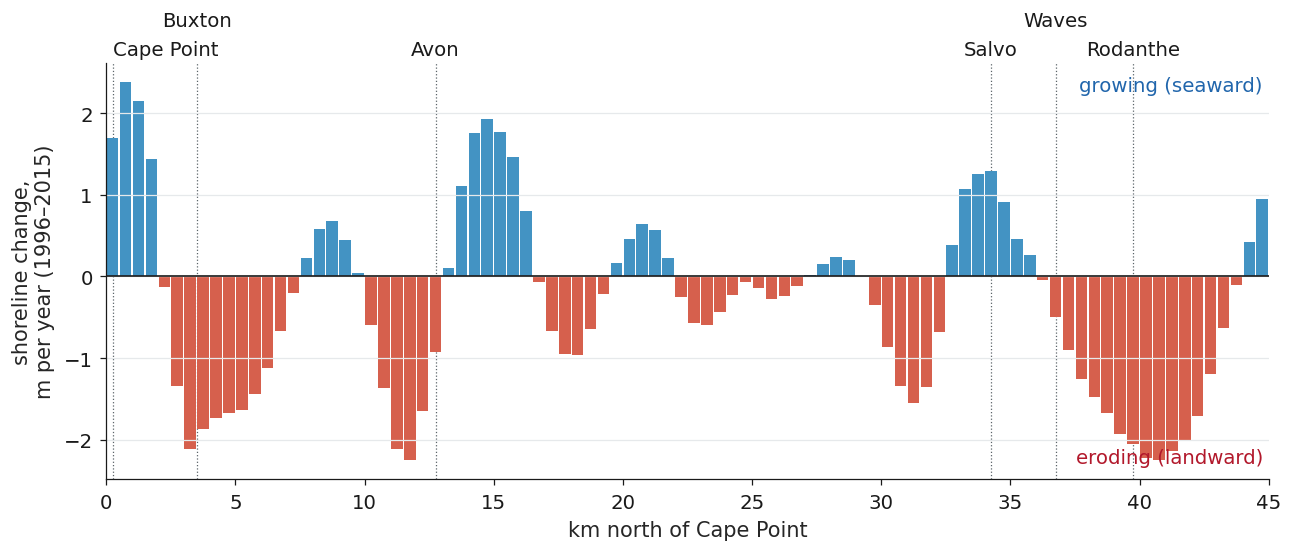
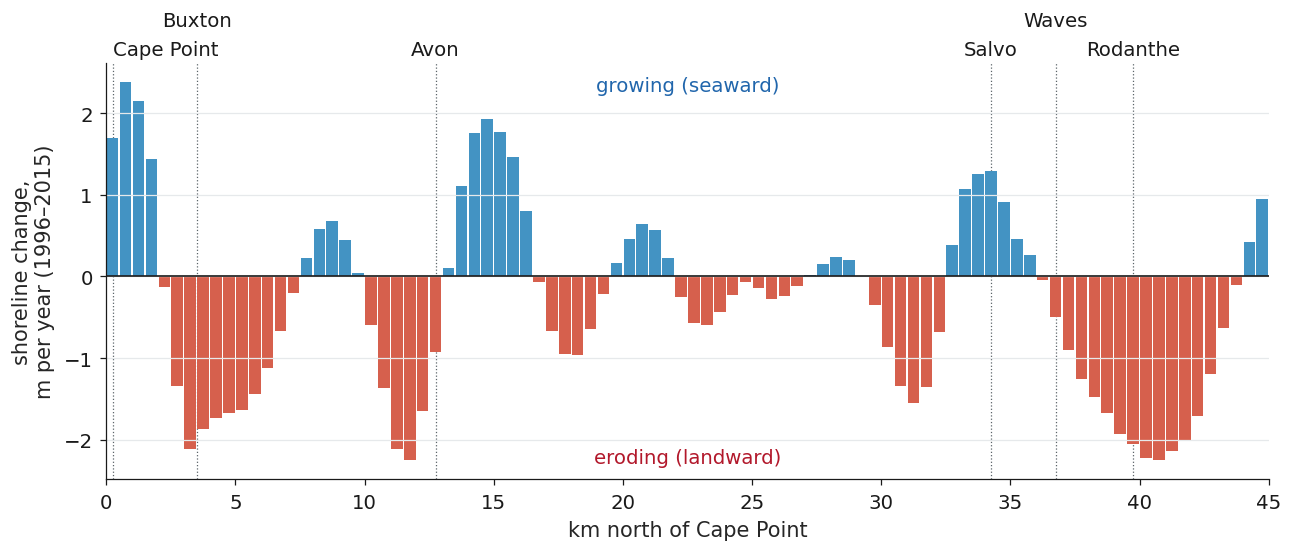
Reorder the groins page and simplify the model page
The groins page now reads history, the hard-structure ban, then the repair, with the examples from other places shortened into a drop-down. On the model page the four-part diagram is gone, step one becomes a slider between the aerial photo and the height maps, the dune-to-road figure uses shaded relief so the dunes stand out, its second chart is dropped, and the labels on the comparison chart are centred.

diff --git a/assets/hatteras/js/model-steps.js b/assets/hatteras/js/model-steps.js
@@ -34,7 +34,27 @@
     show(0);
   }
 
-  function start() { document.querySelectorAll(".hat-steps").forEach(function (r) { Steps(r); }); }
+  // Step 1: drag between the photo and a height map; buttons pick the 10 m grid or the 1 m lidar
+  function Compare(box) {
+    var after = box.querySelector(".hat-ms-after"), range = box.querySelector(".hat-ms-range");
+    var divider = box.querySelector(".hat-ms-divider"), tag = box.querySelector(".hat-ms-tag");
+    function clip() { after.style.clipPath = "inset(0 0 0 " + range.value + "%)"; divider.style.left = range.value + "%"; }
+    range.addEventListener("input", clip);
+    range.addEventListener("keydown", function (e) { e.stopPropagation(); });   // arrows move the handle, not the step
+    box.querySelectorAll(".hat-ms-layers button").forEach(function (b) {
+      b.addEventListener("click", function () {
+        box.querySelectorAll(".hat-ms-layers button").forEach(function (o) { o.classList.toggle("on", o === b); });
+        after.src = box.getAttribute("data-" + b.getAttribute("data-layer"));
+        tag.textContent = b.textContent;
+      });
+    });
+    clip();
+  }
+
+  function start() {
+    document.querySelectorAll(".hat-steps").forEach(function (r) { Steps(r); });
+    document.querySelectorAll(".hat-ms-compare").forEach(Compare);
+  }
   if (document.readyState === "loading") document.addEventListener("DOMContentLoaded", start);
   else start();
 })();

diff --git a/_sass/_hatteras.scss b/_sass/_hatteras.scss
@@ -1818,3 +1818,27 @@ table.hat-mvo-skill {
   object-fit: cover;
 }
 
+// Model page step 1: photo vs height map slider (1 px = 1 m, 950 x 500)
+.hat-ms-compare {
+  margin: 0.4rem 0 0.2rem;
+
+  .hat-ms-layers {
+    margin-bottom: 0.5rem;
+  }
+
+  .hat-ms-photos {
+    aspect-ratio: 950 / 500;
+
+    img {
+      margin: 0;          // the stepper's image margin would push the stacked layers down
+    }
+  }
+
+  .hat-ms-scale {
+    display: block;
+    width: 100%;
+    max-width: 30rem;
+    margin: 0.4rem auto 0;
+  }
+}
+

diff --git a/tools/hatteras_model_stretch.py b/tools/hatteras_model_stretch.py
@@ -12,15 +12,20 @@ It is outlined on the whole-island map of step 2 (tools/hatteras_model_steps.py 
   step1.png        (a) NC OneMap 1996 aerial photo, (b) the 1 m elevation surface, (c) the 10 m grid the model is cut
                    from; the rasters are CASCADE's 2009-2014-1996 product (clip_domain_43_*, resampled_domain_43_*),
                    as in scripts/figure_making/pipeline/0-elevation/dem_composition_figures.py.
-  step5_road.png   the 2007 photo with the 2009 digitised dune line and the 2008 NC-12 line (lines and photo of the same
-                   years, so they sit on each other; the 1996 photo is offset from them), and the distance between them. The model reads its own distance per stretch from the elevation grid
+  step1_photo.jpg, step1_lidar.png, step1_grid.png  the same three views as bare, same-sized layers (1 px = 1 m) for
+                   the drag slider in step 1 (Hannah, 2026-10-04: a slider instead of three stacked panels), and
+                   step1_scale.png, the height colour scale for it
+  step5_road.png   shaded relief of the 2009 lidar (the 1 m surface above, lit from the north-west and tinted by height)
+                   with the 2009 digitised dune line and the 2008 NC-12 line, and the distance between them. Hannah
+                   asked (2026-10-04) for an image where the dunes stand out; in the 2007 photo used before they read
+                   as flat sand. Lines and lidar are of the same years, so they sit on each other. The model reads its own distance per stretch from the elevation grid
                    (RoadSetback_1996_dunestart.csv, 170 m here); the caption on the page says so.
 Writes into assets/hatteras/img/model_steps/; the photos are cached in tools/data/model_stretch_gis<GIS>_<year>.jpg.
 
 Author:  Hannah A. Henry, Coastal Environmental Change Lab,
          University of North Carolina at Chapel Hill
 Contact: hahenry@unc.edu
-Version: 2026-10-03
+Version: 2026-10-04
 """
 import io as _io
 import sys
@@ -124,6 +129,27 @@ def main():
     plt.close(fig)
     print("wrote step1.png")
 
+    # ---- step 1 as slider layers: photo, 1 m lidar, 10 m grid, each W x H px at 1 px = 1 m ------------------------
+    w, h = X1 - X0, c1.shape[0]
+    from matplotlib.colors import to_rgb
+
+    def colour(z):
+        rgb = cmap(norm(np.nan_to_num(z, nan=-1)))[..., :3]
+        rgb[~(z >= 0)] = to_rgb(water)
+        return Image.fromarray((rgb * 255).astype(np.uint8))
+
+    img.resize((w, h), Image.LANCZOS).save(OUT / "step1_photo.jpg", quality=88)
+    colour(c1).save(OUT / "step1_lidar.png", optimize=True)
+    colour(np.repeat(np.repeat(c10, 10, axis=0), 10, axis=1)[:h, :w]).save(OUT / "step1_grid.png", optimize=True)
+    fig, ax = plt.subplots(figsize=(6, 0.55))
+    sm = plt.cm.ScalarMappable(norm=norm, cmap=cmap)
+    cb = fig.colorbar(sm, cax=ax, orientation="horizontal", ticks=ticks)
+    cb.set_label("height above high tide (m); blue is water", fontsize=9.5)
+    cb.ax.tick_params(labelsize=9)
+    fig.savefig(OUT / "step1_scale.png", dpi=150, bbox_inches="tight", pad_inches=0.04)
+    plt.close(fig)
+    print(f"wrote step1 slider layers ({w} x {h} px) and scale")
+
     # ---- step 5: the road behind the dunes on this stretch ------------------------------------------------------------
     dune = gpd.read_file(DUNE).to_crs(26918).geometry.union_all()
     road = gpd.read_file(ROAD).to_crs(26918).geometry.union_all()
@@ -135,7 +161,12 @@ def main():
     from shapely.geometry import box as sbox
     clip = sbox(b.left + X0, b.bottom, b.left + X1, b.top)
     fig, ax = plt.subplots(figsize=(9.5, 9.5 * H / (X1 - X0) + 0.3))
-    ax.imshow(photo(b, 2007), extent=ext)
+    from matplotlib.colors import LightSource
+    land = np.ma.masked_less(np.ma.masked_invalid(c1), 0)
+    ls = LightSource(azdeg=315, altdeg=35)
+    relief = ls.shade(np.ma.filled(land, 0), cmap=cmap, norm=norm, blend_mode="soft", vert_exag=3)
+    relief[np.ma.getmaskarray(land)] = (*matplotlib.colors.to_rgb(water), 1)
+    ax.imshow(relief, extent=ext, interpolation="bilinear")
     for geom, col, lab in ((dune.intersection(clip), "#ffd23f", "front of the dunes (2009)"),
                            (road.intersection(clip), "#d55e00", "NC-12 (2008)")):
         for g in getattr(geom, "geoms", [geom]):
@@ -157,6 +188,8 @@ def main():
     ax.set_xticks([])
     ax.set_yticks([])
     ax.legend(loc="lower left", fontsize=9.5, framealpha=0.92, edgecolor=INK)
+    ax.text(0.008, 0.97, "Shaded relief from lidar, 2009", transform=ax.transAxes, va="top", fontsize=10, color=INK,
+            bbox=dict(boxstyle="square,pad=0.3", fc="white", ec=INK, lw=0.7, alpha=0.93))
     ax.plot([X1 - X0 - 260, X1 - X0 - 60], [40, 40], color="white", lw=3, solid_capstyle="butt", path_effects=halo)
     ax.text(X1 - X0 - 160, 60, "200 m", ha="center", va="bottom", fontsize=9, color="white", path_effects=halo)
     fig.savefig(OUT / "step5_road.png", dpi=150, bbox_inches="tight", pad_inches=0.04)

diff --git a/tools/hatteras_model_steps.py b/tools/hatteras_model_steps.py
@@ -208,35 +208,6 @@ def step4():
     save(fig, 4)
 
 
-def step5():
-    setback = io.two_row(io.tv.INIT_ROOT / HATTERAS_PERIODS[START]["road_setback_file"]).reindex(io.GIS)
-    fig, ax = plt.subplots(figsize=(W_IN, 3.6))
-    for lo, hi in HATTERAS_COMMUNITY_ZONES:
-        ax.axvspan(km(lo) - 0.25, km(hi) + 0.25, color="#e8edf0", zorder=0)
-    ax.axvspan(-1, -1, color="#e8edf0", label="villages: dunes rebuilt, overwash cleared from streets")
-    ax.step(km(setback.index), setback.values, where="mid", color=INK, lw=1.8, label="NC-12: distance back from the front of the dunes (m)")
-    for e in HATTERAS_ROAD_EVENTS:
-        if hasattr(e, "displacement_m") and START <= e.year < END:
-            g = list(e.displacement_m)
-            ax.axvspan(km(min(g)) - 0.25, km(max(g)) + 0.25, ymin=0, ymax=0.12, color=ROAD, zorder=2)
-            ax.text(km(np.mean(g)), 0.15, f"road moved\ninland, {e.year}", transform=ax.get_xaxis_transform(), ha="center",
-                    fontsize=9, color=ROAD, path_effects=halo)
-    for p in HATTERAS_NOURISHMENT_PROJECTS:
-        if START <= p.year < END:
-            g = p.gis_domains
-            ax.axvspan(km(min(g)) - 0.25, km(max(g)) + 0.25, ymin=0.88, ymax=1, color=FILL, zorder=2)
-            ax.text(km(np.mean(g)), 0.84, f"beach\nnourishment, {p.year}", transform=ax.get_xaxis_transform(), ha="center",
-                    va="top", fontsize=9, color="#8a5d06", path_effects=halo)
-    ax.set_xlim(0, 45)
-    ax.set_ylim(0, np.nanmax(setback) * 1.25)
-    ax.set_xlabel("km north of Cape Point", fontsize=10)
-    ax.set_ylabel("metres", fontsize=10)
-    ax.legend(frameon=False, fontsize=9.5, loc="upper center", bbox_to_anchor=(0.5, -0.17), ncol=2)
-    villages(ax)
-    frame(ax)
-    save(fig, 5)
-
-
 def step6():
     target, _ = io.observed_target(START, END)
     fig, ax = plt.subplots(figsize=(W_IN, 3.6))
@@ -247,8 +218,8 @@ def step6():
     ax.set_xlim(0, 45)
     ax.set_xlabel("km north of Cape Point", fontsize=10)
     ax.set_ylabel(f"shoreline change,\nm per year ({START}–{END})", fontsize=10)
-    ax.text(0.995, 0.97, "growing (seaward)", transform=ax.transAxes, ha="right", va="top", fontsize=9.5, color="#2166ac")
-    ax.text(0.995, 0.03, "eroding (landward)", transform=ax.transAxes, ha="right", va="bottom", fontsize=9.5, color="#b2182b")
+    ax.text(0.5, 0.97, "growing (seaward)", transform=ax.transAxes, ha="center", va="top", fontsize=9.5, color="#2166ac")
+    ax.text(0.5, 0.03, "eroding (landward)", transform=ax.transAxes, ha="center", va="bottom", fontsize=9.5, color="#b2182b")
     ax.grid(axis="y", color=GRID, lw=0.6)
     villages(ax)
     frame(ax)
@@ -263,7 +234,6 @@ def main():
     step_offset()
     step3()
     step4()
-    step5()
     step6()
 
 

diff --git a/_pages/hatteras/management-groins.md b/_pages/hatteras/management-groins.md
@@ -26,13 +26,6 @@ The groins trapped sand drifting south along the shore, and the beach south of t
 The shore kept retreating toward the lighthouse, and in the summer of 1999 the lighthouse itself was moved 2,900 feet (880 m) to the southwest.
 The 2017 and 2022 Buxton nourishment projects start at the southern groin and run north.
 
-## The repair under way
-
-Today the two northern groins are completely submerged on most days, and the southern one (groin 3 in the photos) has deteriorated.
-Dare County is repairing it, to trap more sand and keep the beach to its north wide enough to protect NC-12 through Buxton.
-The plan restores 640 feet of the groin, with stone armour on its seaward 340 feet. The National Park Service took public comments in August and September 2025, and in February 2026 the state ruled the work a repair of an existing structure, which the hard-structure ban allows.
-According to local news, the contract was awarded in June 2026, with the work due to be substantially complete by 15 December 2026.
-
 ## Why North Carolina banned hard structures
 
 In January 1985 the state's Coastal Resources Commission banned permanent erosion-control structures on the ocean shoreline, including groins, jetties, breakwaters and seawalls.
@@ -42,41 +35,33 @@ In 2003 the ban was written into state law: "No person shall construct a permane
 In 2011 the legislature made an exception for terminal groins, built at the end of an island beside an inlet. Up to four were allowed at first, and up to seven today. Two have been built: at Bald Head Island (2015) and Ocean Isle Beach (2022).
 Older structures such as the Buxton groins remain, and can be repaired.
 
-## What groins and jetties have done elsewhere
+## The repair under way
 
-Groins trap sand on the side it comes from, so the beach beyond them is starved of sand.
+Today the two northern groins are completely submerged on most days, and the southern one (groin 3 in the photos) has deteriorated.
+Dare County is repairing it, to trap more sand and keep the beach to its north wide enough to protect NC-12 through Buxton.
+The plan restores 640 feet of the groin, with stone armour on its seaward 340 feet. The National Park Service took public comments in August and September 2025, and in February 2026 the state ruled the work a repair of an existing structure, which the hard-structure ban allows.
+According to local news, the contract was awarded in June 2026, with the work due to be substantially complete by 15 December 2026.
 
-### Folly Beach, South Carolina
+<details class="hat-deeper" markdown="1">
+<summary>Lessons from other places</summary>
 
-The Charleston Harbor jetties, the larger cousins of groins, were authorized in 1878 and built between 1882 and 1895 to keep the harbor entrance open.
-A 1987 Army Corps of Engineers study found that about 57% of the erosion of Folly Beach, just south of them, was caused by the jetties.
-Between the jetties and Folly Beach, the Morris Island Lighthouse was finished on dry land in 1876, beside its keepers' houses.
-By 1982 it stood about 500 feet off what was left of Morris Island; the National Register report written that year says the jetties "caused complete erosion of the shoal protecting Morris Island from the sea."
+Groins and jetties trap sand on the side it comes from, so the beach beyond them is starved of it.
+
+**Folly Beach, South Carolina.** The Charleston Harbor jetties, built in 1882–1895, are larger cousins of groins. A 1987 Army Corps of Engineers study put about 57% of the erosion of Folly Beach, just south of them, down to the jetties. Between them and Folly Beach, the Morris Island Lighthouse was built on dry land in 1876; by 1982 it stood about 500 feet offshore.
 
 <figure class="hat-photo-wide" style="max-width: 46rem; margin-left: auto; margin-right: auto;">
 <img src="{{ '/assets/hatteras/img/charleston_jetties.jpg' | relative_url }}" alt="Aerial photo of the entrance to Charleston Harbor: the two stone jetties reaching out to sea, Morris Island south of them, and the Morris Island Lighthouse standing in the water off the island's south end, with the north end of Folly Beach beyond Lighthouse Inlet" loading="lazy">
-<figcaption class="hat-caption">The entrance to Charleston Harbor, South Carolina, in April 2023. The two jetties run out to sea on either side of the entrance; Morris Island lies south of them, and the circle marks the Morris Island Lighthouse, now standing in the water off the island's south end. Folly Beach continues south from Lighthouse Inlet. Photo: USDA National Agriculture Imagery Program (public domain), 18 April 2023, via Microsoft Planetary Computer.</figcaption>
+<figcaption class="hat-caption">The entrance to Charleston Harbor in April 2023: the two jetties, Morris Island south of them, and the Morris Island Lighthouse (circled), built on the island in 1876 and now standing in the water. Folly Beach continues south from Lighthouse Inlet. Photo: USDA National Agriculture Imagery Program (public domain), via Microsoft Planetary Computer.</figcaption>
 </figure>
 
-<div class="hat-pairs">
-<figure class="hat-pair">
-<div class="hat-pair-photos">
-<figure><img src="{{ '/assets/hatteras/img/elsewhere/charleston_light_1876.jpg' | relative_url }}" alt="Black and white photo of the striped lighthouse standing on flat, dry land beside a two-storey keeper's house and palm trees" loading="lazy"><figcaption>On land (photo titled 1876)</figcaption></figure>
-<figure><img src="{{ '/assets/hatteras/img/elsewhere/morris_island_light_2020.jpg' | relative_url }}" alt="The same lighthouse at dusk, standing alone in the water with only a low sandbar near its base" loading="lazy"><figcaption>November 2020, in the water</figcaption></figure>
-</div>
-<figcaption class="hat-caption">The Morris Island Lighthouse. It was finished in 1876 on dry land among the keepers' houses; the island it stood on has since washed away around it. Photos: U.S. Coast Guard (<a href="https://commons.wikimedia.org/wiki/File:Charleston1876.JPG">left</a>, titled "1876 Charleston Light") and Lance Cheung, U.S. Department of Agriculture (<a href="https://commons.wikimedia.org/wiki/File:20201118-RD-LSC-0019_(50732148382).jpg">right</a>, 18 November 2020), both public domain.</figcaption>
-</figure>
-</div>
-
-### Westhampton Beach, New York
-
-On Long Island, a field of 15 long rock groins was built at Westhampton in 1965–66 and 1969–70.
-The groins trapped an estimated five million cubic yards of sand, starving the beach to the west of them, which breached in a nor'easter in December 1992.
+**Westhampton Beach, New York.** Fifteen rock groins built in 1965–70 trapped an estimated five million cubic yards of sand. The beach to the west, cut off from that sand, breached in a nor'easter in December 1992.
 
 <figure class="hat-photo-wide" style="max-width: 46rem; margin-left: auto; margin-right: auto;">
 <img src="{{ '/assets/hatteras/img/elsewhere/westhampton_breach_1992.jpg' | relative_url }}" alt="Aerial photo from December 1992 of a narrow barrier island with houses, cut through by the ocean, with fans of sand spread into the bay behind it and groins visible farther along the beach" loading="lazy">
-<figcaption class="hat-caption">Westhampton Beach on 18 December 1992, days after the nor'easter: the ocean has cut through the barrier west of the groin field (groins show at the right) and spread fans of sand into the bay behind. Photo: U.S. Army Corps of Engineers, New York District, via <a href="https://www.dvidshub.net/image/7053492/1992-westhampton-beach-breach">DVIDS</a> (public domain); the "1992" label is the Corps'.</figcaption>
+<figcaption class="hat-caption">Westhampton Beach on 18 December 1992: the ocean has cut through the barrier west of the groins (at right) and spread sand into the bay behind. Photo: U.S. Army Corps of Engineers, New York District, via <a href="https://www.dvidshub.net/image/7053492/1992-westhampton-beach-breach">DVIDS</a> (public domain).</figcaption>
 </figure>
+
+</details>
 
 <p class="hat-caption">Sources: National Park Service, <a href="https://parkplanning.nps.gov/showFile.cfm?projectID=132446&amp;sfid=813968">Buxton Southern Groin Repair</a> (2025); NC Division of Coastal Management, <a href="https://www.deq.nc.gov/coastal-management/buxton-groin-determination-feb-2026/open">Buxton groin determination</a> (February 2026) and <a href="https://www.deq.nc.gov/coastal-management/proposed-groin-repairs-buxton-20250624-ncdcm/open">proposed groin repairs at Buxton</a> (2025); Island Free Press, <a href="https://islandfreepress.org/outer-banks-news/buxton-groin-repair-project-remains-on-track-for-substantial-completion-by-dec-15/">Buxton groin repair project remains on track</a> (September 2026); NC Coastal Resources Science Panel, <a href="https://deq.nc.gov/coastal-management/draft-science-panel-report-effects-hard-structures-june-15-2026-v3/download?attachment=">Effects of Hard Structures on Sandy, Open-Ocean Coastlines</a> (draft, June 2026); Coastal Resources Commission, <a href="https://www.deq.nc.gov/documents/pdf/coastal-resources-commission-meeting-agendas-minutes/agendas/shoreline-hardening-exceptions-feb17/download">History of the hardened structures ban</a>; <a href="https://www.ncleg.gov/EnactedLegislation/Statutes/HTML/BySection/Chapter_113A/GS_113A-115.1.html">N.C. Gen. Stat. 113A-115.1</a>; <a href="https://www.ncleg.gov/enactedlegislation/sessionlaws/html/2011-2012/sl2011-387.html">Session Law 2011-387</a>; National Park Service, <a href="https://www.nps.gov/articles/groins-and-jetties.htm">Groins and Jetties</a>; City of Folly Beach, <a href="https://des.sc.gov/sites/des/files/media/document/OCRM_FollyBeachLCBMP2021.pdf">Local Comprehensive Beachfront Management Plan</a> (2021), citing the US Army Corps of Engineers (1987); J. Tanski, New York Sea Grant, <a href="https://repository.library.noaa.gov/view/noaa/35726/noaa_35726_DS1.pdf">Long Island's Dynamic South Shore: A Primer</a>; US Army Corps of Engineers, Charleston District, <a href="https://www.sac.usace.army.mil/Media/News-Stories/Article/2140820/repairing-the-south-jetty/">Repairing the south jetty</a> and <a href="https://www.sac.usace.army.mil/Portals/43/docs/civilworks/follybeachfeasibility/Appendix%20G%20Section%20111%20Folly%20Beach%2026%20MAY%202020.pdf">Folly Beach Section 111, Appendix G</a> (2020); South Carolina Department of Archives and History for the National Park Service, <a href="https://npgallery.nps.gov/NRHP/GetAsset/NRHP/82003837_text">National Register nomination, Morris Island Lighthouse</a> (1982); Nersesian, Kraus and Carson, <a href="https://icce-ojs-tamu.tdl.org/icce/article/view/4935">International Conference on Coastal Engineering</a> (1992); National Park Service, <a href="https://www.nps.gov/caha/learn/historyculture/movingthelighthouse.htm">Moving the Cape Hatteras Lighthouse</a>.</p>
 

diff --git a/_pages/hatteras/model.md b/_pages/hatteras/model.md
@@ -13,13 +13,7 @@ CASCADE is a computer model of a {% include hatteras/term.liquid id="barrier-isl
 It starts from a detailed map of the island's elevation, applies the storms, waves, and sea-level rise that actually happened, and lets the island change, year by year.
 </p>
 
-## How it works, in four parts
-
-<figure class="hat-model-figure" data-scroll-start="0.15">
-{% include hatteras/model_diagram.svg %}
-</figure>
-
-### The inputs, step by step
+## The inputs, step by step
 
 Click **Next**, or use the arrow keys, to see what goes into a run of the model, here the run that recreates 1996 to 2015.
 
